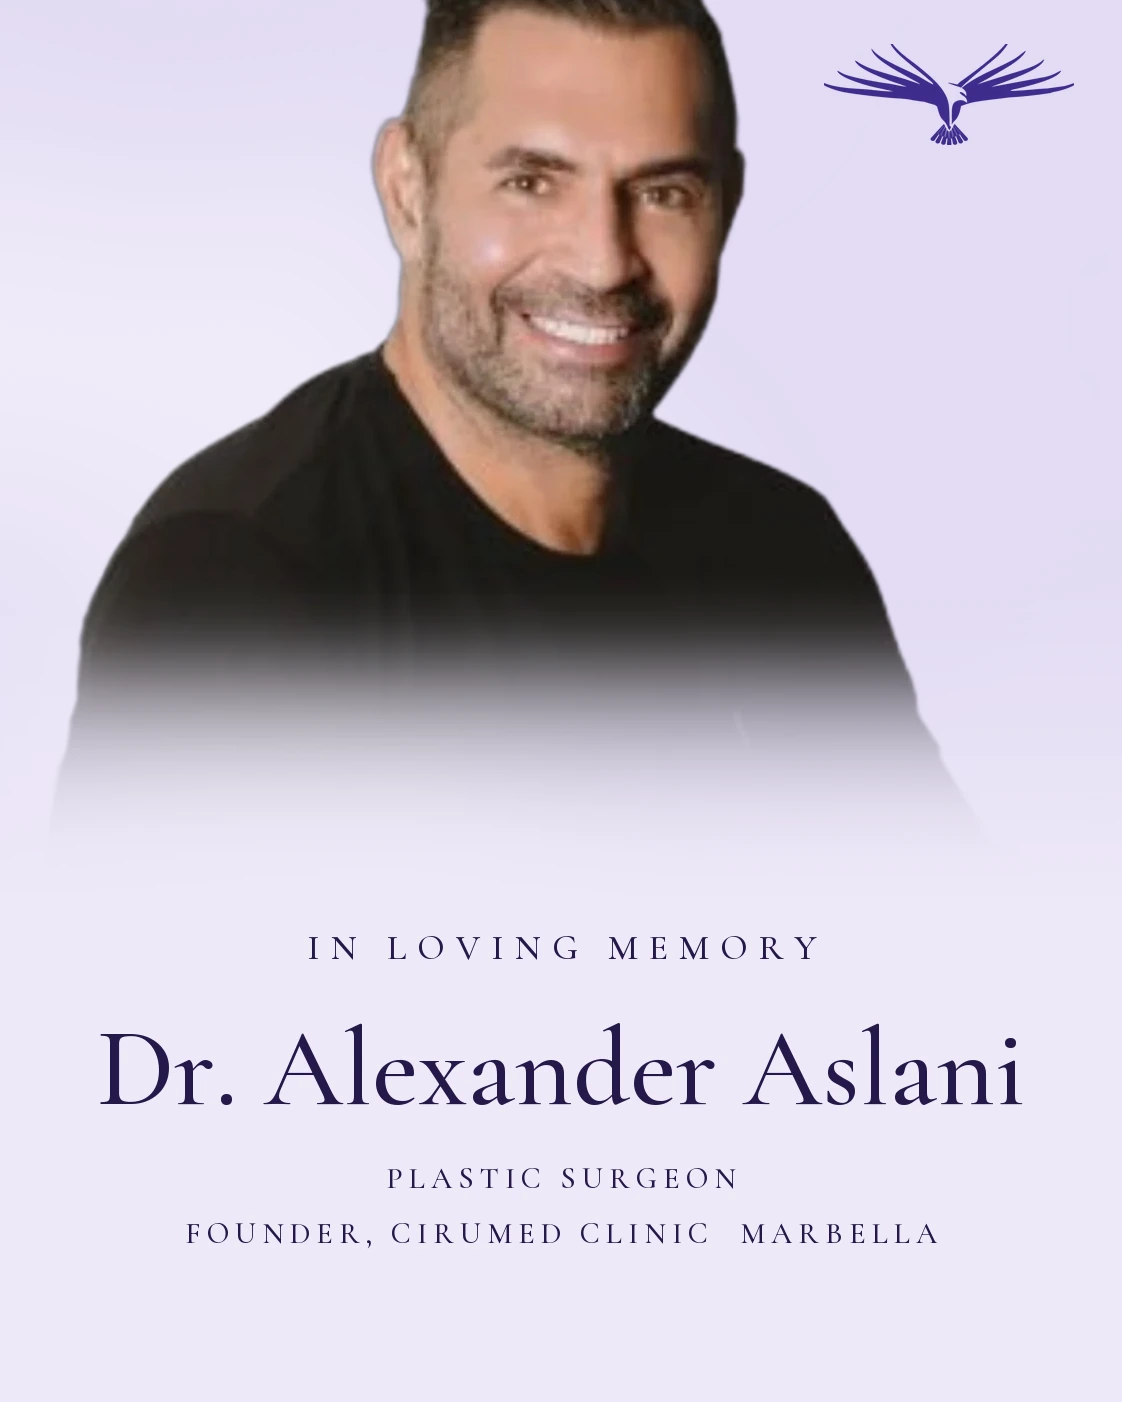
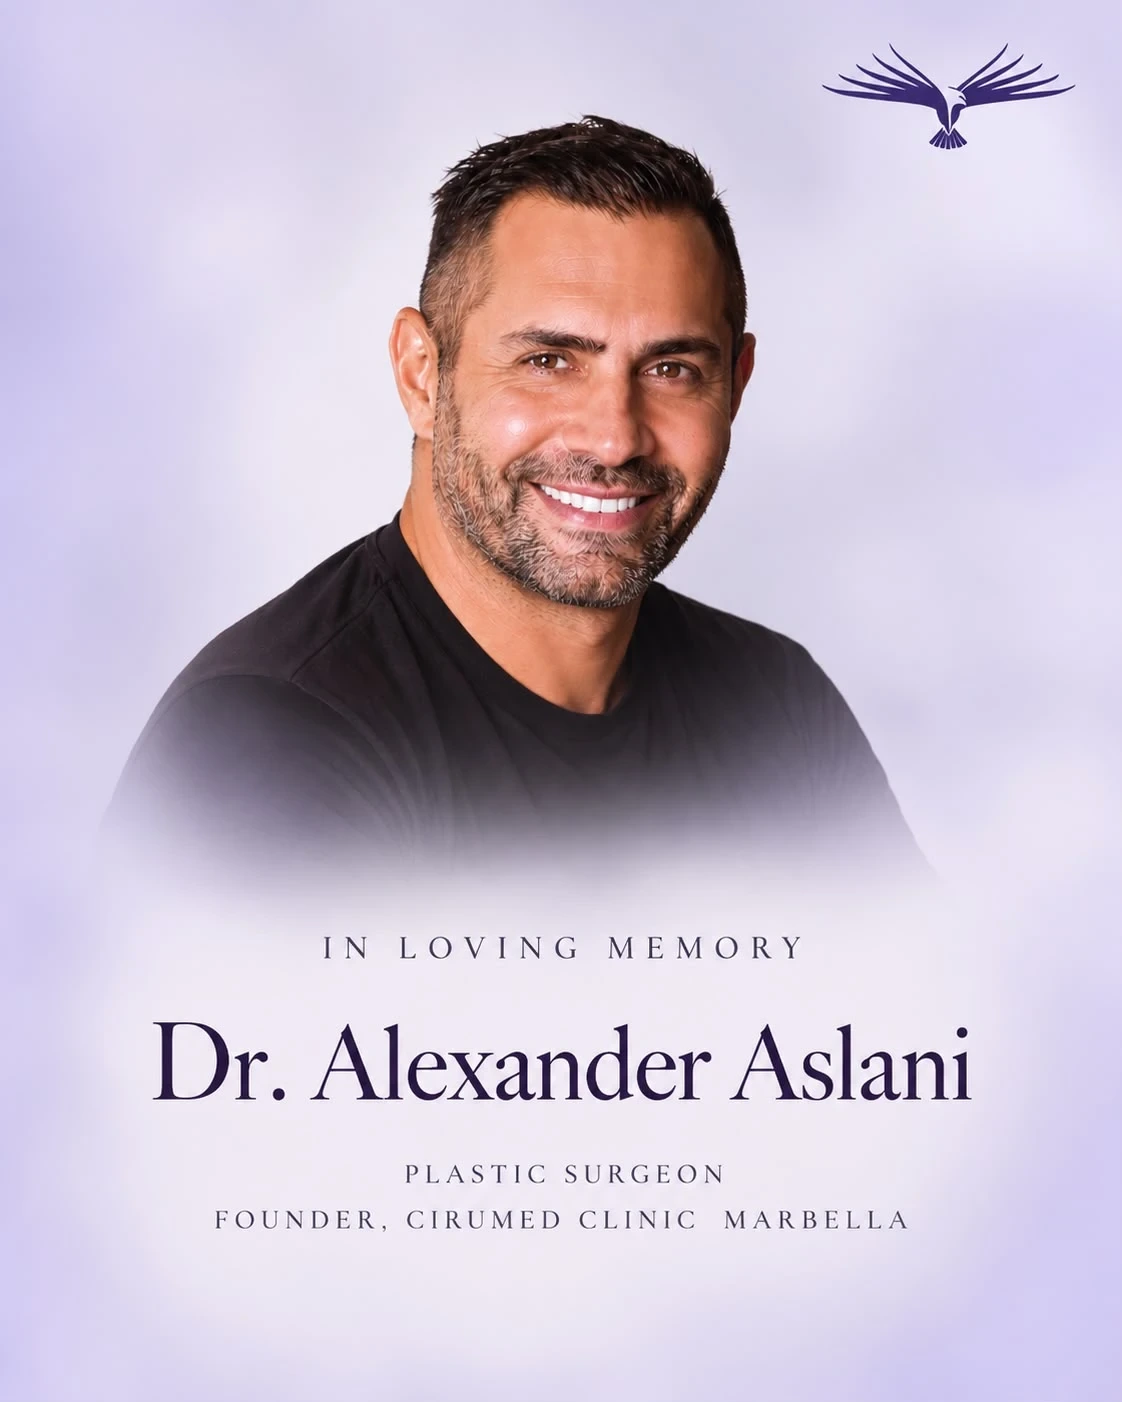
Blog: rebuild Dr Aslani covers from the supplied memorial card
Portrait card is used as-is for mobile and blog cards; the wide desktop
header lifts the sharp photo off the card instead of the soft social photo.

diff --git a/scripts/aslani_cover.py b/scripts/aslani_cover.py
@@ -1,96 +1,81 @@
-"""Build the memorial headers for Dr Alexander Aslani's tribute, matching the
-supplied portrait card: soft lavender sky, subject faded into it,
-"In Loving Memory" serif lockup and the purple eagle mark.
+"""Build the wide (desktop) memorial header for Dr Alexander Aslani's tribute
+from the supplied portrait memorial card.
 
-Usage: python scripts/aslani_cover.py scripts/source/dr-alexander-aslani.webp <serif-font.ttf> [wide|portrait]
-  wide     -> desktop header (2400x960)
-  portrait -> mobile header (1122x1402)
+The portrait card itself is used as-is for mobile and the blog cards. For the
+wide version we lift the photo (with its own soft lavender mist) off the card,
+lay it on the left of a matching lavender canvas, and reset the
+"In Loving Memory" lockup + eagle mark on the right.
+
+Usage: python scripts/aslani_cover.py <serif-font.ttf>
 """
 import random
 import sys
 
-from PIL import Image, ImageDraw, ImageFilter, ImageFont
-from rembg import remove
+from PIL import Image, ImageChops, ImageDraw, ImageFilter, ImageFont, ImageStat
 
-PHOTO, FONT = sys.argv[1], sys.argv[2]
-MODE = sys.argv[3] if len(sys.argv) > 3 else "wide"
+FONT = sys.argv[1]
+CARD = "scripts/source/aslani-memorial-card.png"
 LOGO = "public/assets/logo-white.webp"
-OUT = f"public/images/blog/dr-alexander-aslani-{MODE}.webp"
+OUT_WIDE = "public/images/blog/dr-alexander-aslani-wide.webp"
+OUT_PORTRAIT = "public/images/blog/dr-alexander-aslani-portrait.webp"
 
-L = {
-    # ~2.5:1, matches the blog post header box on desktop
-    "wide": dict(size=(2400, 960), subj_h=1.04, subj_cx=0.30, mist=(0.55, 1.0),
-                 logo_w=300, logo_xy=(110, 80), text_cx=0.70,
-                 text_y=(300, 390, 610, 675), sizes=(46, 150, 40), track=(14, 9)),
-    "portrait": dict(size=(1122, 1402), subj_h=0.66, subj_cx=0.50, mist=(0.40, 0.66),
-                     logo_w=250, logo_xy=(48, 44), text_cx=0.50,
-                     text_y=(925, 1000, 1160, 1215), sizes=(36, 112, 30), track=(11, 6)),
-}[MODE]
-W, H = L["size"]
+W, H = 2400, 960  # ~2.5:1, matches the blog post header box on desktop
 INK = (38, 24, 74)
 EAGLE = (61, 44, 141)
 
-# 1) Lavender "cloud" backdrop
-bg = Image.new("RGB", (W, H), (234, 228, 246))
+card = Image.open(CARD).convert("RGB")
+card.save(OUT_PORTRAIT, "WEBP", quality=92, method=6)
+
+# 1) Photo region off the card (head to mist)
+photo = card.crop((0, 0, card.width, 900))
+
+scale = H * 1.12 / photo.height
+photo = photo.resize((int(photo.width * scale), int(photo.height * scale)), Image.LANCZOS)
+
+# 2) Backdrop tinted to the card's own sky
+# sample the sky right around his head so the photo edges don't show
+samples = [ImageStat.Stat(card.crop(b)).mean for b in [(150, 120, 330, 330), (800, 250, 1100, 520), (40, 400, 200, 650)]]
+base = tuple(int(sum(c) / len(samples)) for c in zip(*samples))
+bg = Image.new("RGB", (W, H), base).convert("RGBA")
 clouds = Image.new("RGBA", (W, H), (0, 0, 0, 0))
 cd = ImageDraw.Draw(clouds)
 random.seed(7)
-for _ in range(70):
+for _ in range(60):
     x, y = random.randint(-200, W), random.randint(-200, H)
     rx, ry = random.randint(150, 520), random.randint(90, 300)
-    col = random.choice([(255, 255, 255, 70), (214, 202, 240, 80), (200, 186, 236, 55)])
+    col = random.choice([(255, 255, 255, 45), (215, 205, 240, 45), (232, 226, 248, 55)])
     cd.ellipse([x - rx, y - ry, x + rx, y + ry], fill=col)
-clouds = clouds.filter(ImageFilter.GaussianBlur(90))
-bg = Image.alpha_composite(bg.convert("RGBA"), clouds)
+bg = Image.alpha_composite(bg, clouds.filter(ImageFilter.GaussianBlur(90)))
 
-# 2) Subject cut out, cropped to head and shoulders
-subj = remove(Image.open(PHOTO).convert("RGBA"))
-bbox = subj.split()[-1].getbbox()
-subj = subj.crop(bbox)
-subj = subj.crop((0, 0, subj.width, int(subj.height * 0.78)))
-target_h = int(H * L["subj_h"])
-ratio = target_h / subj.height
-subj = subj.resize((int(subj.width * ratio), target_h), Image.LANCZOS)
+# 3) Feathered mask so the photo's edges melt into the canvas
+mask = Image.new("L", photo.size, 0)
+md = ImageDraw.Draw(mask)
+pad = 120
+md.rounded_rectangle([pad, -400, photo.width - pad, photo.height - pad], radius=400, fill=255)
+mask = mask.filter(ImageFilter.GaussianBlur(110))
+# drop the card's own eagle (top right of the card) out of the photo, after
+# feathering so the blur can't bleed it back in
+knock = Image.new("L", photo.size, 255)
+ImageDraw.Draw(knock).rectangle([int(780 * scale), 0, photo.width, int(200 * scale)], fill=0)
+knock = knock.filter(ImageFilter.GaussianBlur(30))
+mask = ImageChops.multiply(mask, knock)
 
-# Soft matte edge + long fade at the bottom so he dissolves into the sky
-r, g, b, a = subj.split()
-a = a.filter(ImageFilter.GaussianBlur(1.2))
-fade = Image.new("L", subj.size, 255)
-fd = ImageDraw.Draw(fade)
-start = int(subj.height * 0.70)
-for yy in range(start, subj.height):
-    t = (yy - start) / (subj.height - start)
-    fd.line([(0, yy), (subj.width, yy)], fill=int(255 * (1 - t) ** 1.2))
-fade = fade.filter(ImageFilter.GaussianBlur(25))
-a = Image.composite(a, Image.new("L", subj.size, 0), fade)
-subj = Image.merge("RGBA", (r, g, b, a))
+px = int(W * 0.29) - photo.width // 2
+py = H - photo.height + int(H * 0.06)
+bg.paste(photo, (px, py), mask)
+img = bg
 
-sx = int(W * L["subj_cx"]) - subj.width // 2
-layer = Image.new("RGBA", (W, H), (0, 0, 0, 0))
-# Top of the head runs off the canvas: the source photo crops his hair flat
-layer.paste(subj, (sx, -12), subj)
-img = Image.alpha_composite(bg, layer)
-
-# Lavender mist rising from the bottom so the shirt dissolves softly
-mist = Image.new("RGBA", (W, H), (238, 233, 248, 0))
-md = ImageDraw.Draw(mist)
-m0, m1 = int(H * L["mist"][0]), int(H * L["mist"][1])
-for yy in range(m0, H):
-    t = min(1, (yy - m0) / (m1 - m0))
-    md.line([(0, yy), (W, yy)], fill=(238, 233, 248, int(255 * min(1, t ** 1.5 * 1.1))))
-img = Image.alpha_composite(img, mist)
-
-# 3) Eagle mark, recoloured to brand purple
+# 4) Eagle mark, recoloured to brand purple
 logo = Image.open(LOGO).convert("RGBA")
 la = logo.split()[-1].point(lambda v: 255 if v > 40 else 0).filter(ImageFilter.MinFilter(5))
 logo = logo.crop(la.getbbox())
-lw = L["logo_w"]
+lw = 300
 logo = logo.resize((lw, int(logo.height * lw / logo.width)), Image.LANCZOS)
 tint = Image.new("RGBA", logo.size, EAGLE + (255,))
 tint.putalpha(logo.split()[-1])
-img.alpha_composite(tint, (W - lw - L["logo_xy"][0], L["logo_xy"][1]))
+img.alpha_composite(tint, (W - lw - 110, 80))
 
-# 4) Text lockup
+# 5) Text lockup, centred in the right half
 d = ImageDraw.Draw(img)
 
 
@@ -112,16 +97,13 @@ def spaced(text, f, cx, y, tracking, fill):
         x += w + tracking
 
 
-cx = int(W * L["text_cx"])
-y1, y2, y3, y4 = L["text_y"]
-s_kicker, s_name, s_role = L["sizes"]
-t_kicker, t_role = L["track"]
-spaced("IN LOVING MEMORY", font(s_kicker, 500), cx, y1, t_kicker, INK)
-name_f = font(s_name, 500)
+cx = int(W * 0.70)
+spaced("IN LOVING MEMORY", font(46, 500), cx, 300, 14, INK)
+name_f = font(150, 500)
 name = "Dr. Alexander Aslani"
-d.text((cx - d.textlength(name, font=name_f) / 2, y2), name, font=name_f, fill=INK)
-spaced("PLASTIC SURGEON", font(s_role, 500), cx, y3, t_role, INK)
-spaced("FOUNDER, CIRUMED CLINIC  MARBELLA", font(s_role, 500), cx, y4, t_role, INK)
+d.text((cx - d.textlength(name, font=name_f) / 2, 390), name, font=name_f, fill=INK)
+spaced("PLASTIC SURGEON", font(40, 500), cx, 610, 9, INK)
+spaced("FOUNDER, CIRUMED CLINIC  MARBELLA", font(40, 500), cx, 675, 9, INK)
 
-img.convert("RGB").save(OUT, "WEBP", quality=90, method=6)
-print("saved", OUT, img.size)
+img.convert("RGB").save(OUT_WIDE, "WEBP", quality=92, method=6)
+print("saved", OUT_WIDE, img.size, "and", OUT_PORTRAIT, card.size)
